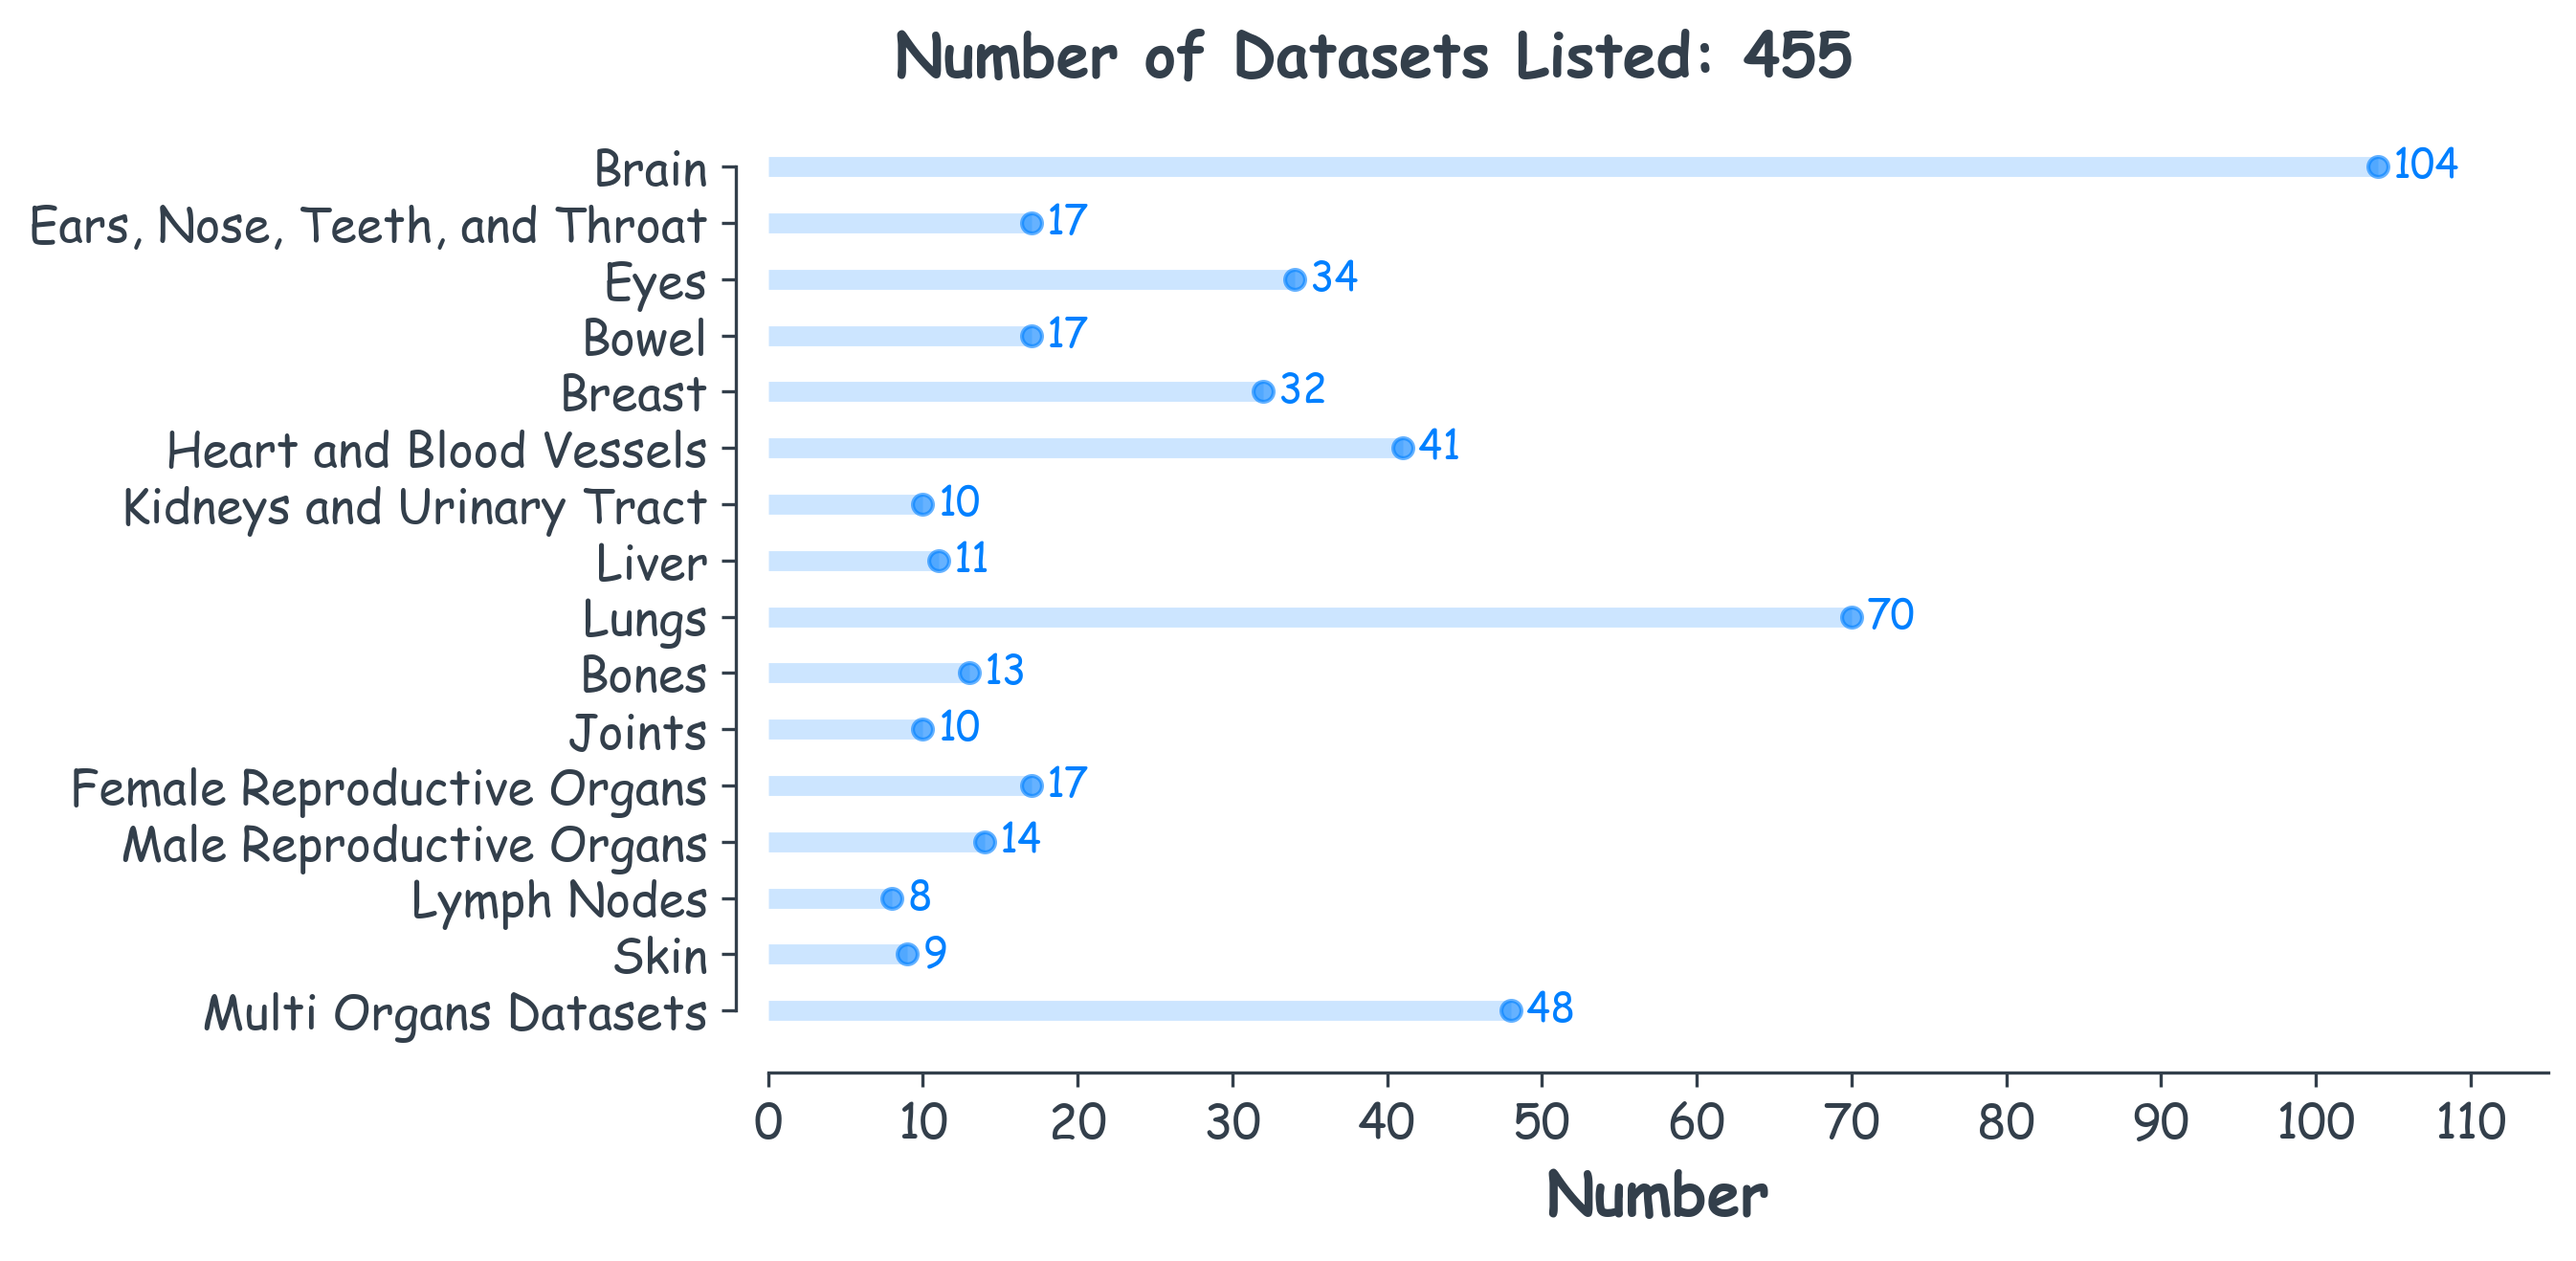
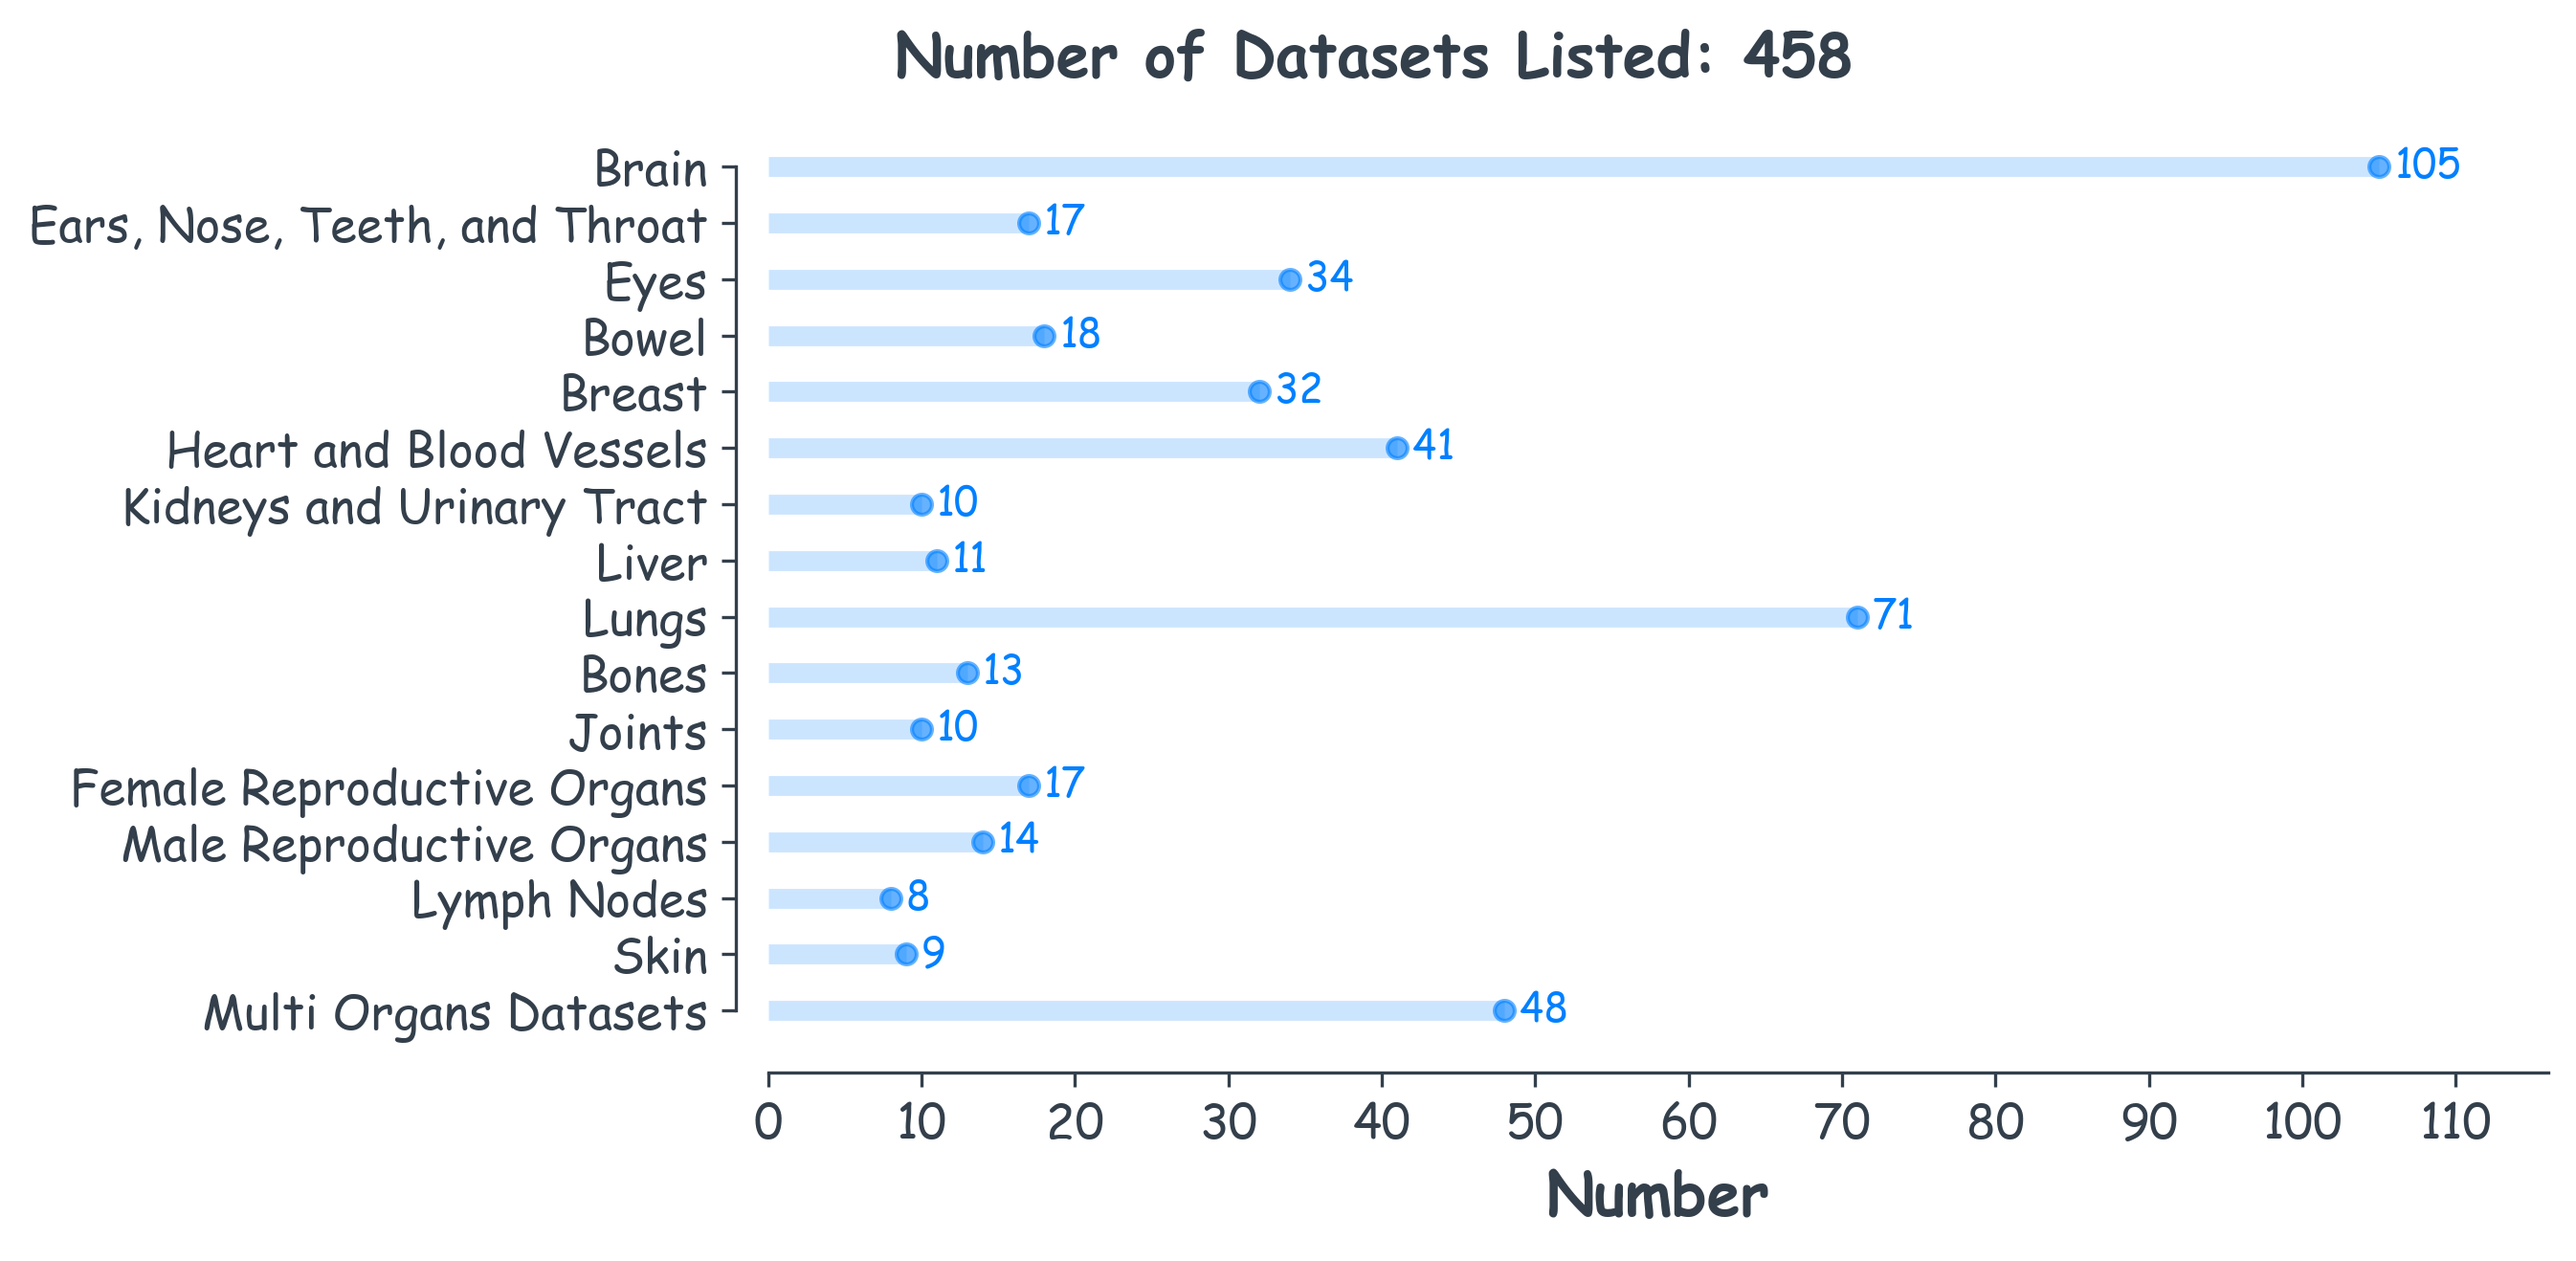
update image number, N = 458

diff --git a/src/datasetNumberImage.py b/src/datasetNumberImage.py
@@ -29,15 +29,15 @@ plt.rcParams['text.color']='#333F4B'
 
 
 data = {
-       'Brain': 104,
+       'Brain': 105,
        'Ears, Nose, Teeth, and Throat': 17, 
        'Eyes': 34,
-       'Bowel': 17,
+       'Bowel': 18,
        'Breast': 32,
        'Heart and Blood Vessels': 41, 
        'Kidneys and Urinary Tract': 10,
        'Liver': 11, 
-       'Lungs': 70,
+       'Lungs': 71,
        'Bones': 13, 
        'Joints': 10, 
        'Female Reproductive Organs': 17,
